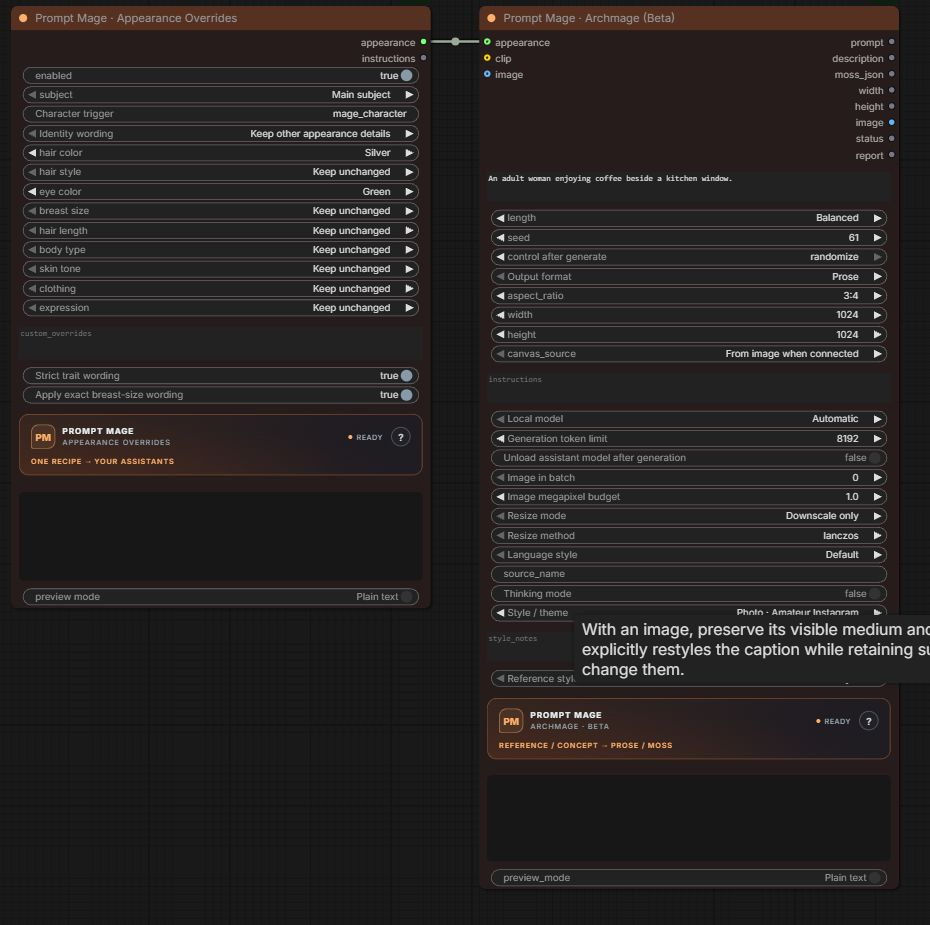
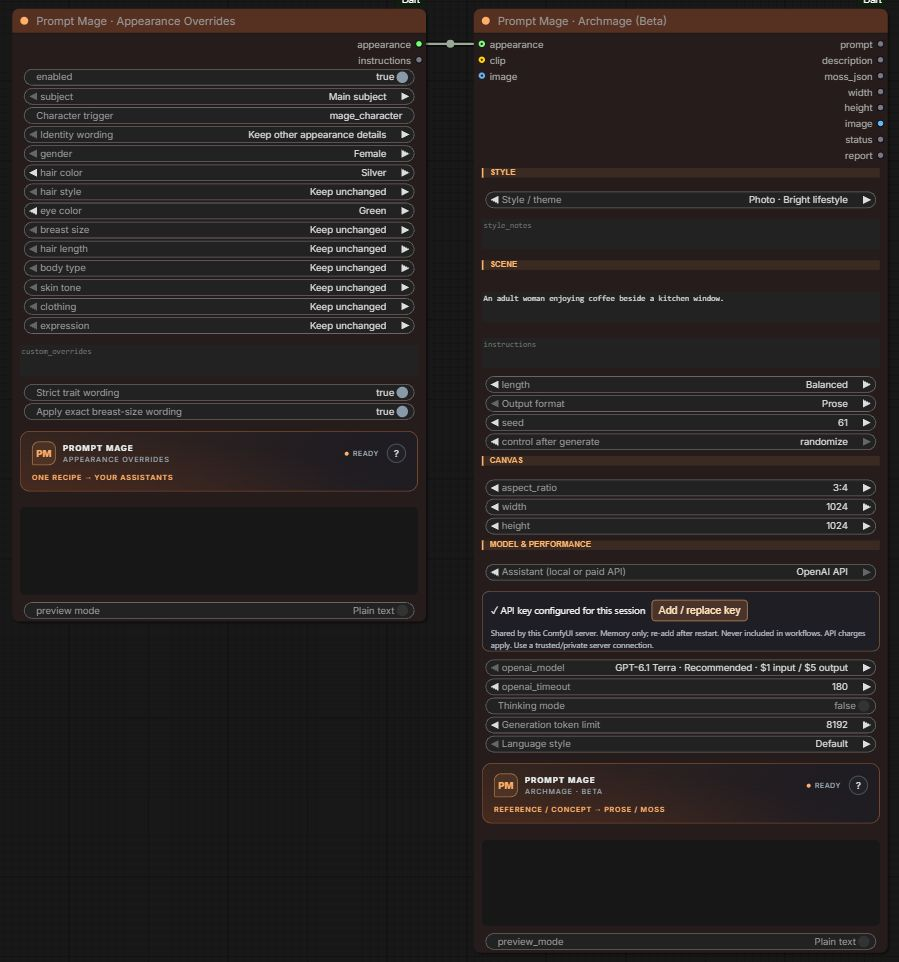
Refresh node screenshots, gallery and OpenAI setup documentation

diff --git a/docs/NODE_GALLERY.md b/docs/NODE_GALLERY.md
@@ -1,0 +1,31 @@
+# The current Prompt Mage nodes
+
+Real ComfyUI screenshots from a neutral demo, updated for 1.10.0. Settings shown are examples, not a quality benchmark or a claim that API requests are free.
+
+## Archmage: write a scene or describe a photo
+
+Connect an optional image or appearance recipe, write a scene idea, then choose prose or MOSS JSON. Style comes first; scene, canvas and model controls have separate sections. Local Qwen and OpenAI API backends share the same output sockets.
+
+<img src="../assets/screenshots/archmage-openai.jpg" alt="Current Archmage node: grouped style, scene, canvas and API controls" width="500">
+
+**Scene idea** supplies WHAT to depict. **Writing rules** controls HOW to describe it. The OpenAI example shows Terra and a configured, collapsed key panel; no credential is visible. [API setup](OPENAI_API.md).
+
+## Appearance Overrides: one reusable character recipe
+
+Choose gender, an exact character trigger, hair/eye colors and the traits you want to replace. Keep unchanged makes no request; Custom reveals your own value. Connect **appearance → Archmage.appearance**. This changes the text description, not source image pixels or loaded character LoRAs.
+
+<img src="../assets/screenshots/appearance-overrides.jpg" alt="Appearance Overrides with gender, character trigger and appearance selectors" width="500">
+
+## Resolution: choose size once
+
+Select aspect ratio, total megapixels and alignment. Connect **width/height** to both Archmage and the empty latent so the prompt's canvas matches the actual image size. Custom dimensions are available from the aspect dropdown. This node allocates no latent or model weights.
+
+<img src="../assets/screenshots/resolution-controls.jpg" alt="Resolution controls: aspect ratio, megapixel budget and dimension alignment" width="420">
+
+## Upload Images: drag, choose files, or choose a folder
+
+Uploads local photos to the ComfyUI server, including RunPod. Batch off runs the complete connected workflow once per image; batch on submits one workflow with the full image list. Both start at the first uploaded image using **Run all images from first**.
+
+<img src="../assets/screenshots/upload-images.jpg" alt="Upload Images with local image and folder selection" width="500">
+
+[Three starting workflows](../workflows/start-here/README.md) · [Archmage controls](ARCHMAGE_USABILITY.md) · [Return to README](../README.md)

diff --git a/README.md b/README.md
@@ -4,7 +4,7 @@
 
 Turn a rough idea or reference image into a usable image prompt. **Archmage** combines scene writing, image descriptions, character appearance settings, 31 visual styles and native MOSS JSON layouts. Use local Qwen or the OpenAI API, with one shared canvas size for your prompt and image workflow.
 
-[Quickstart](QUICKSTART.md) · [Workflows](workflows/start-here/README.md) · [Archmage guide](docs/ARCHMAGE_USABILITY.md) · [Registry](https://registry.comfy.org/nodes/prompt-mage) · [Credits](CREDITS.md)
+[Quickstart](QUICKSTART.md) · [Workflows](workflows/start-here/README.md) · [Archmage guide](docs/ARCHMAGE_USABILITY.md) · [Registry](https://registry.comfy.org/nodes/prompt-mage) · [Node screenshots](docs/NODE_GALLERY.md) · [Credits](CREDITS.md)
 
 ## Start with Archmage
 
@@ -19,7 +19,7 @@ Turn a rough idea or reference image into a usable image prompt. **Archmage** co
 
 ![Archmage with a shared Appearance Overrides recipe](assets/screenshots/archmage-appearance.jpg)
 
-*Actual ComfyUI node setup with a neutral example. Screenshots show prompt tools, not a generated image or a quality benchmark.*
+*Current Archmage layout with a reusable appearance recipe and the collapsed OpenAI key panel. Neutral demo settings; [see individual node screenshots](docs/NODE_GALLERY.md).*
 
 ## Install
 

diff --git a/PUBLISHING.md b/PUBLISHING.md
@@ -1,5 +1,10 @@
 # Publishing Prompt Mage
 
+## Current source: 1.10.0
+
+The [OpenAI API update](https://github.com/Renz1998/ComfyUI-Prompt-Mage/commit/90d4e896ee1a2eb853f47d51eb445cdad964fc4f) is available on GitHub and installed locally. [CI](https://github.com/Renz1998/ComfyUI-Prompt-Mage/actions/runs/42326205597) passed on Transformers 4.46.3 and 5.17.0, including 120 Python tests and seven JavaScript suites. Bounded live checks verified Sol/Terra text, Terra MOSS compilation and image encoding/description of a synthetic 512×512 geometric image. The masked key panel was also inspected in the live ComfyUI frontend. Credentials are not included in any artifact. Registry upload/approval remains separate.
+
+
 ## Registry migration and review state — November 7, 2026
 
 The **prompt-mage 1.8.1** distribution was uploaded successfully with the requested matching install command. The 1.9.0 usability update is available on GitHub and installed locally; it has not been uploaded to Registry yet. See the [migration guide](docs/REGISTRY_MIGRATION.md). The old listing will be retained with a notice; existing users must not install both copies.

diff --git a/docs/OPENAI_API.md b/docs/OPENAI_API.md
@@ -6,6 +6,10 @@
 
 Local Qwen remains the default. Updating an existing workflow never switches it to a paid backend automatically. The local CLIP and VRAM/unload controls are ignored in API mode; the image-generation workflow can still use its usual local MOSS text encoder downstream.
 
+<img src="../assets/screenshots/openai-key-panel.jpg" alt="Archmage OpenAI controls with an empty masked key field and Add key button" width="500">
+
+The screenshot shows an empty entry field; the configured indicator never reveals the stored key.
+
 ## Models and prices
 
 The dropdown labels show standard USD per **one million input / output tokens**, checked November 7, 2026:
